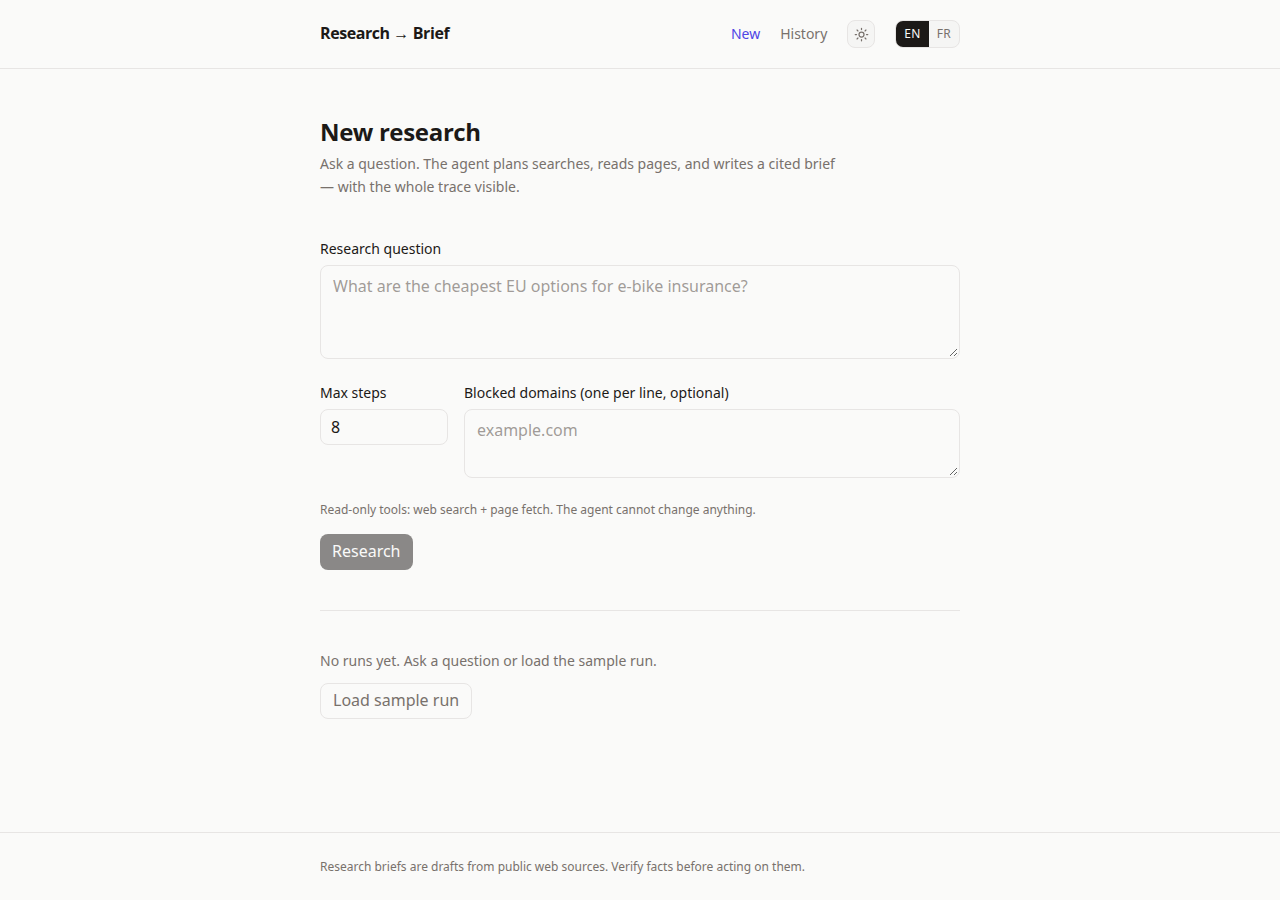
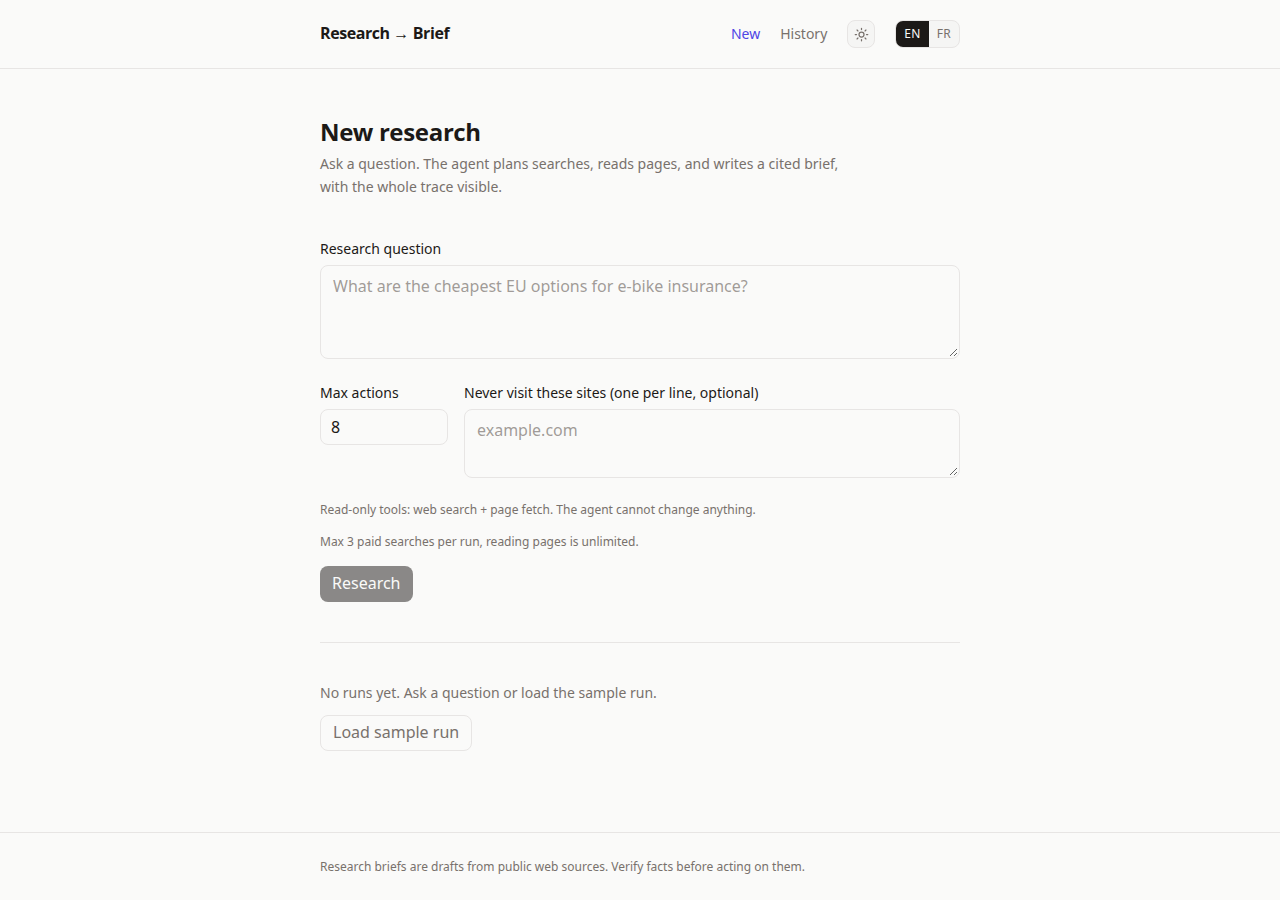
README refresh + current screenshots

diff --git a/README.md b/README.md
@@ -24,15 +24,20 @@ observe → synthesize, with cost/latency transparency and safety rails.
 ## How it works
 
 ```
-question ──► plan (2–5 searches, JSON) ──► loop (max N steps):
+question ──► plan (2–5 searches, JSON) ──► loop (max 8 actions):
                                                    │
                               ┌────────────────────┼────────────────────┐
                               ▼                    ▼                    ▼
                        web_search              fetch_page            finish
-                       (DDG / Brave)        (readable text)              │
-                              │                    │                    ▼
-                              └────────┬───────────┘            brief (streamed,
-                                                               [n] validated)
+                    (Tavily/Brave/DDG,      (readable text)              │
+                     max 3 paid)                 │                    ▼
+                              │                    │            brief (streamed,
+                              └────────┬───────────┘            [n] validated +
+                                       │                       repair pass)
+                              ┌────────┴────────────────────────────┐
+                              │ 2-source evidence rule; thin pages  │
+                              │ flagged; repeats skipped visibly    │
+                              └─────────────────────────────────────┘
 ```
 
 - **No function-calling API.** The agent speaks strict ReAct-style JSON
@@ -42,11 +47,11 @@ question ──► plan (2–5 searches, JSON) ──► loop (max N steps):
   visible in `src/lib/agent.ts` instead of hidden in a provider SDK.
 - **Read-only tools by construction**: `web_search` and `fetch_page`
   only. There is no tool that changes anything, and the UI says so.
-- **Guardrails, enforced and shown**: max steps (3–15), domain blocklist
-  (skips appear in the trace, never silent), repeated queries/URLs
-  skipped deterministically (added after the sample run double-fetched
-  one page, the duplicate is still visible in it), iteration cap
-  against stubborn loops, cancel anytime with partial results saved.
+- **Guardrails, enforced and shown**: max 8 actions (3–8 adjustable),
+  max 3 paid searches per run, domain blocklist (skips appear in the
+  trace, never silent), repeated queries/URLs skipped deterministically
+  (added after the sample run double-fetched one page, the duplicate is
+  still visible in it), cancel anytime with partial results saved.
 - **Honest failures**: thin pages (under 500 chars, usually
   JavaScript-rendered portals) are flagged to the agent, which fetches
   elsewhere instead of settling; search rate limits, bot-walled pages
@@ -70,7 +75,7 @@ question ──► plan (2–5 searches, JSON) ──► loop (max N steps):
 
 - Job queue + worker for runs (today they execute inside the streaming
   request; cancel is cooperative).
-- Real search API as primary (Brave/Tavily), scraping as fallback.
+- Scraping as fallback only (Tavily primary when configured).
 - Auth + per-user run history (single-user sqlite today).
 - Fetch cache + politeness (robots.txt, per-host pacing) before
   any serious crawl volume.
